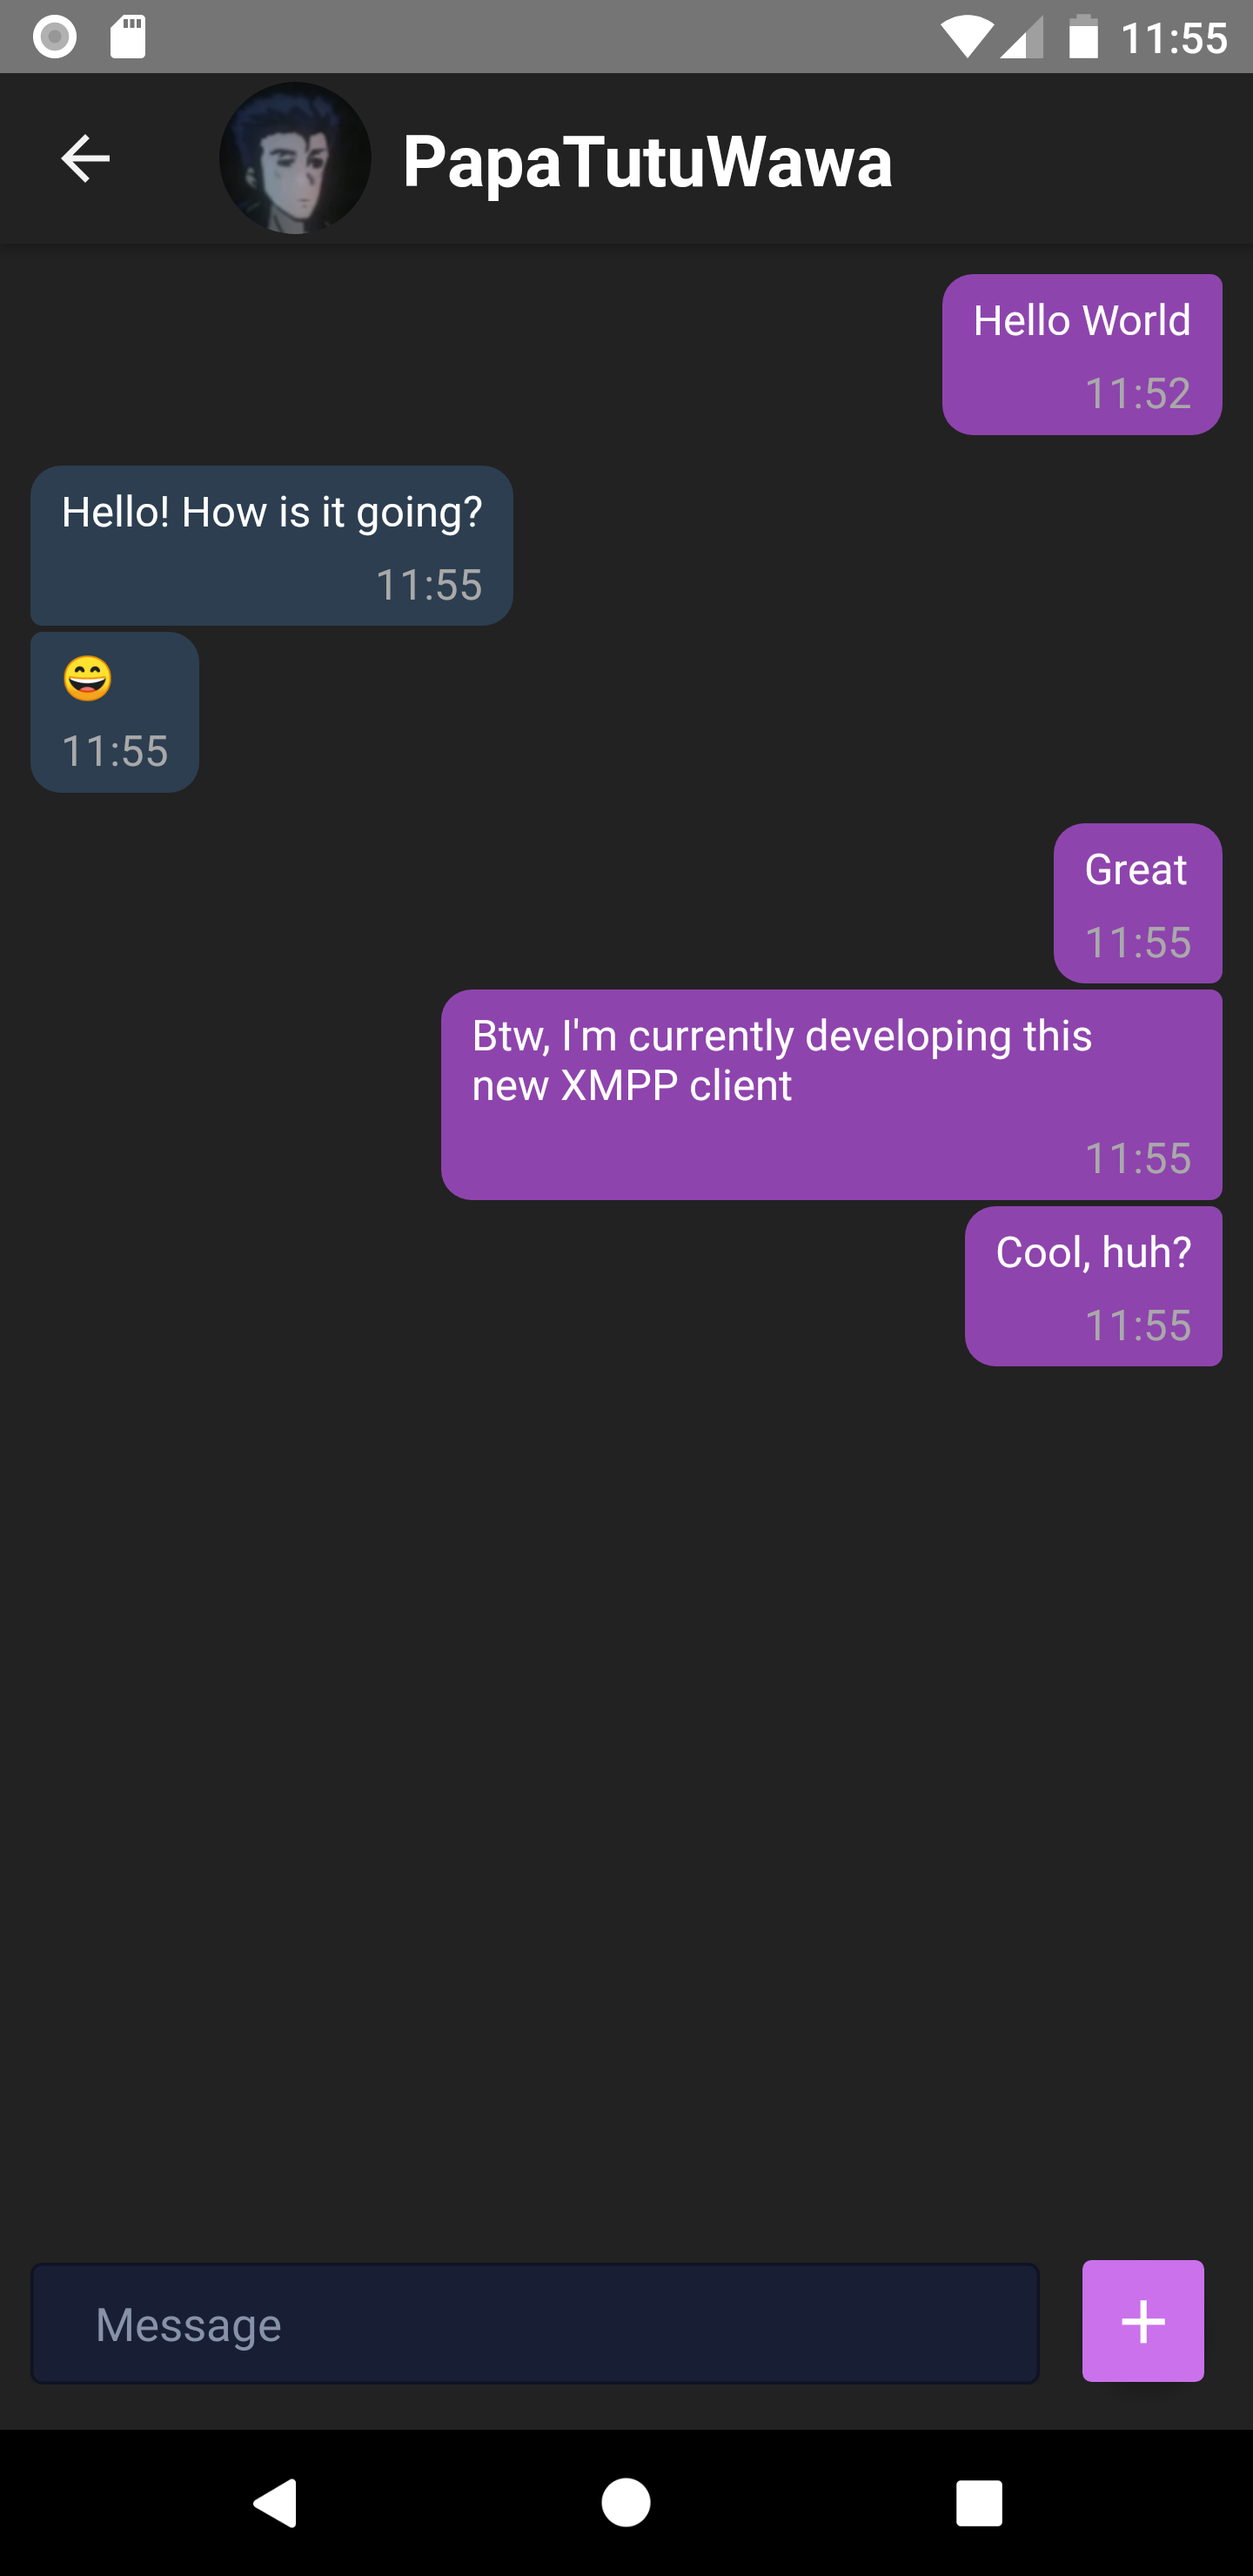
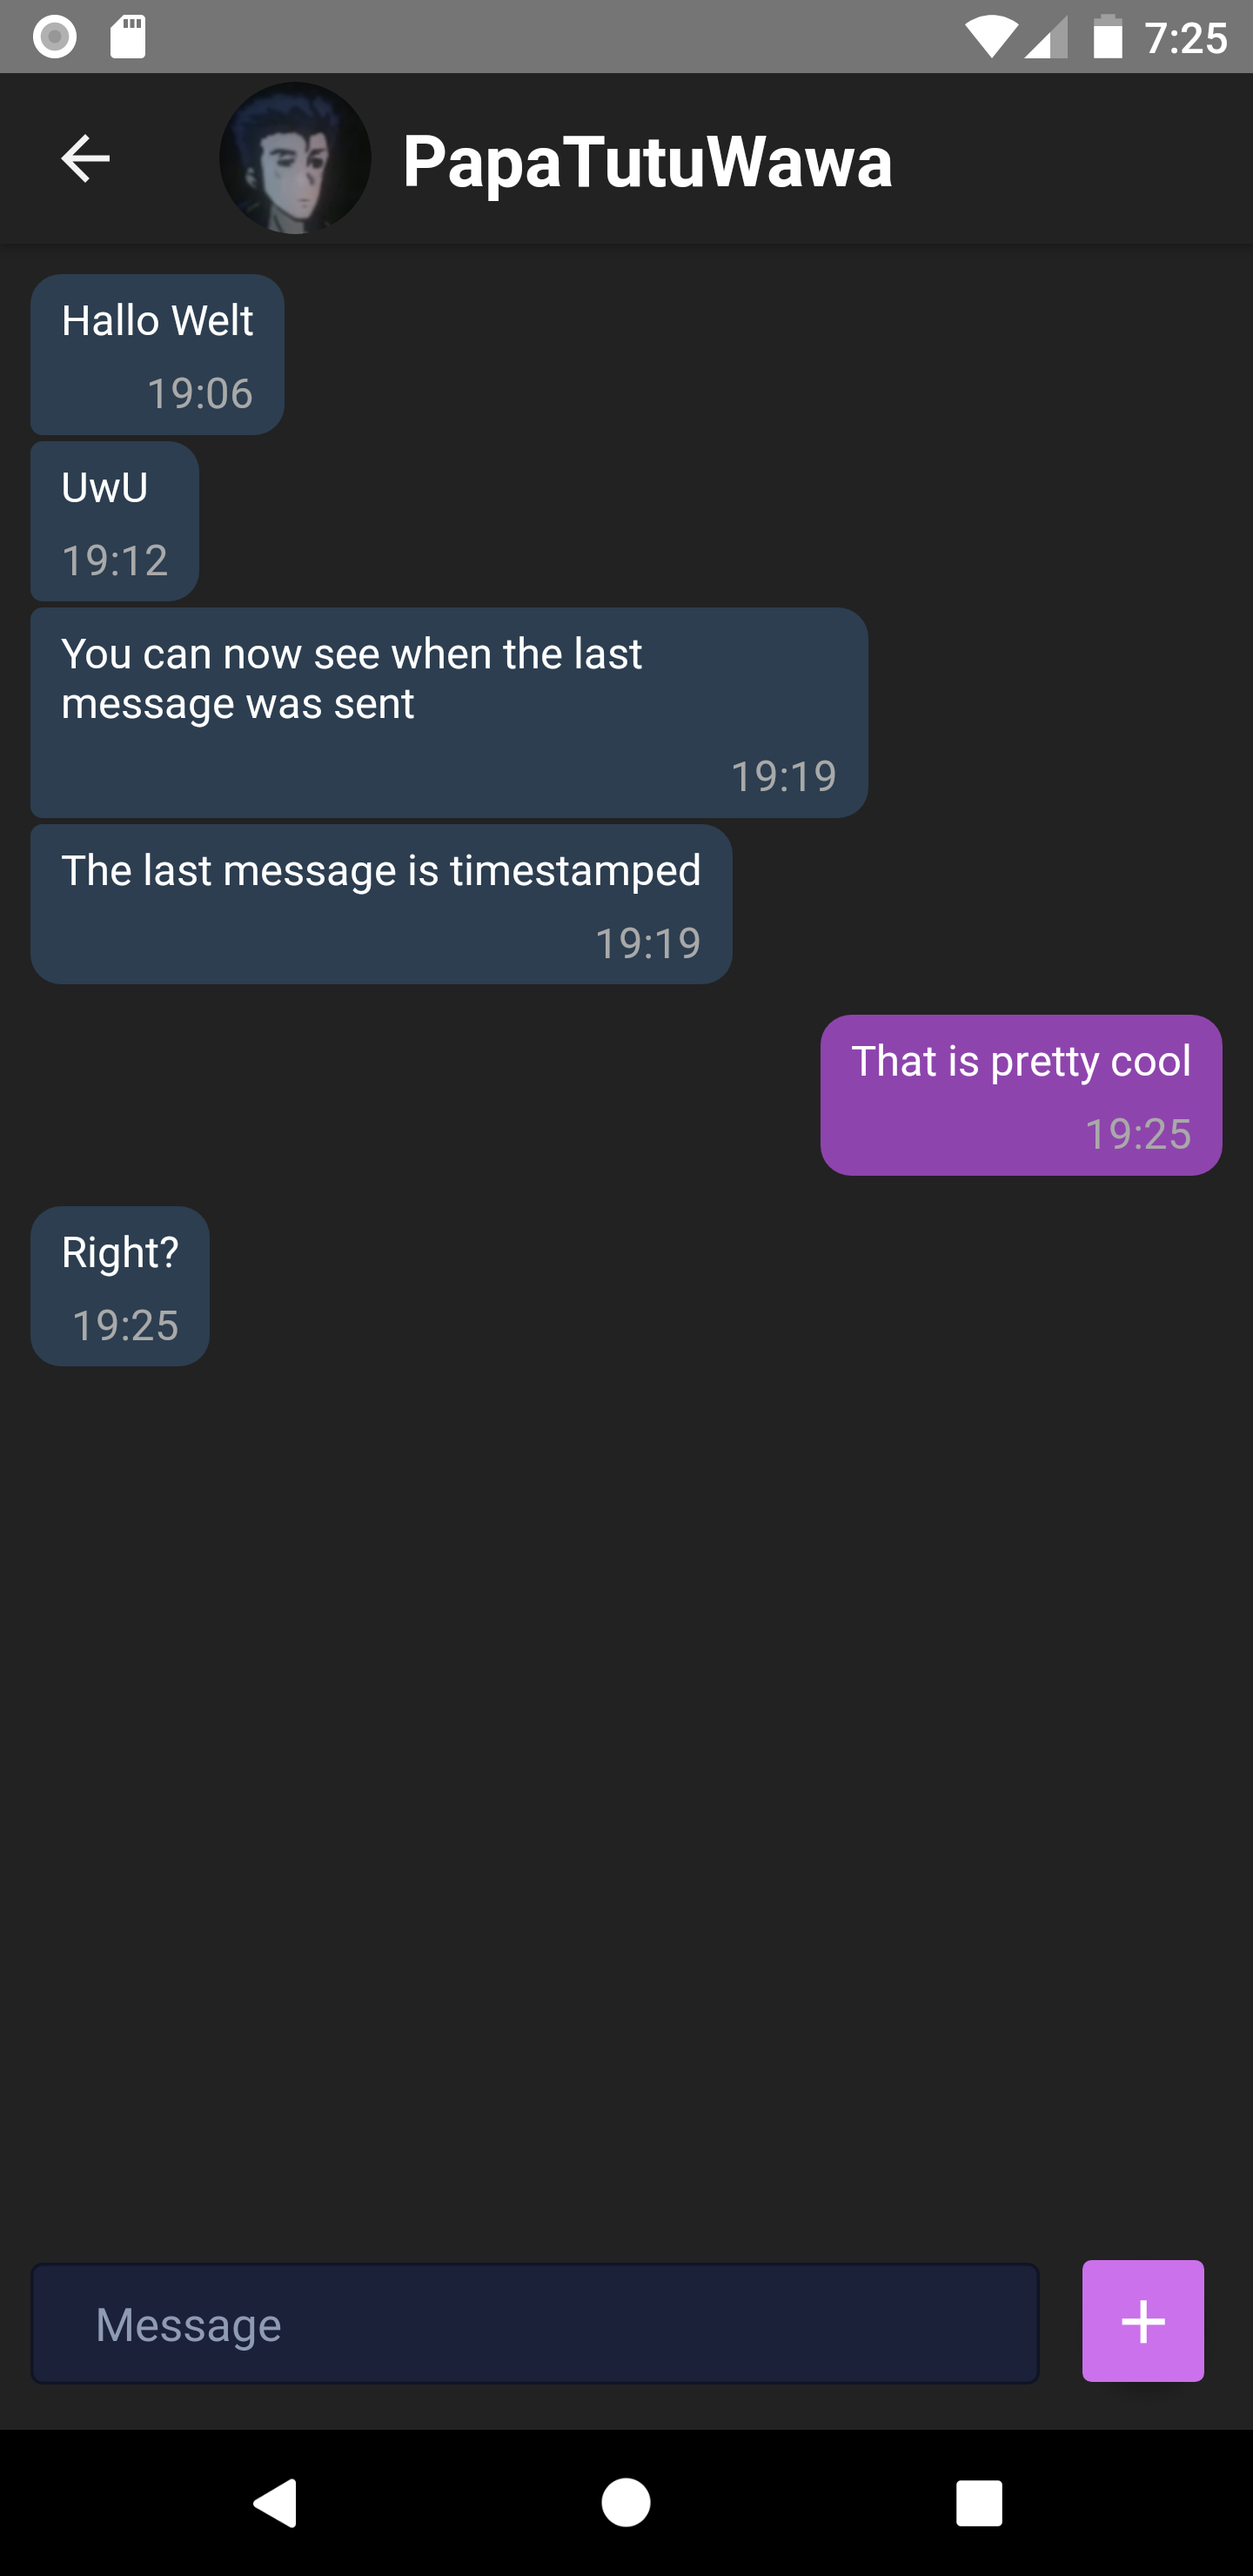
ChatView: Fix first and last bubble to look wrong

diff --git a/ui/chat/ChatView.tsx b/ui/chat/ChatView.tsx
@@ -159,10 +159,8 @@ class ChatView extends Component {
     renderBubble = ({item, index}) => {
         // TODO: Check if only visible items get immediately rendered. If so, send a read marker
         //       when rendered and not yet marked as read
-        const clampedNext = index + 1 >= this.state.messages.length ? this.state.messages.length - 1 : index + 1;
-        const clampedPrev = index - 1 < 0 ? 0 : index - 1;
-        const start = this.state.messages[clampedPrev].sent !== item.sent;
-        const end = this.state.messages[clampedNext].sent !== item.sent;
+        const start = index - 1 < 0 ? true : this.state.messages[index - 1].sent !== item.sent;
+        const end = index + 1 >= this.state.messages.length ? true : this.state.messages[index + 1].sent !== item.sent;
         const between = !start && !end;
 
         return ChatBubble(item, this.conversation.type, !end, between, start, end);
